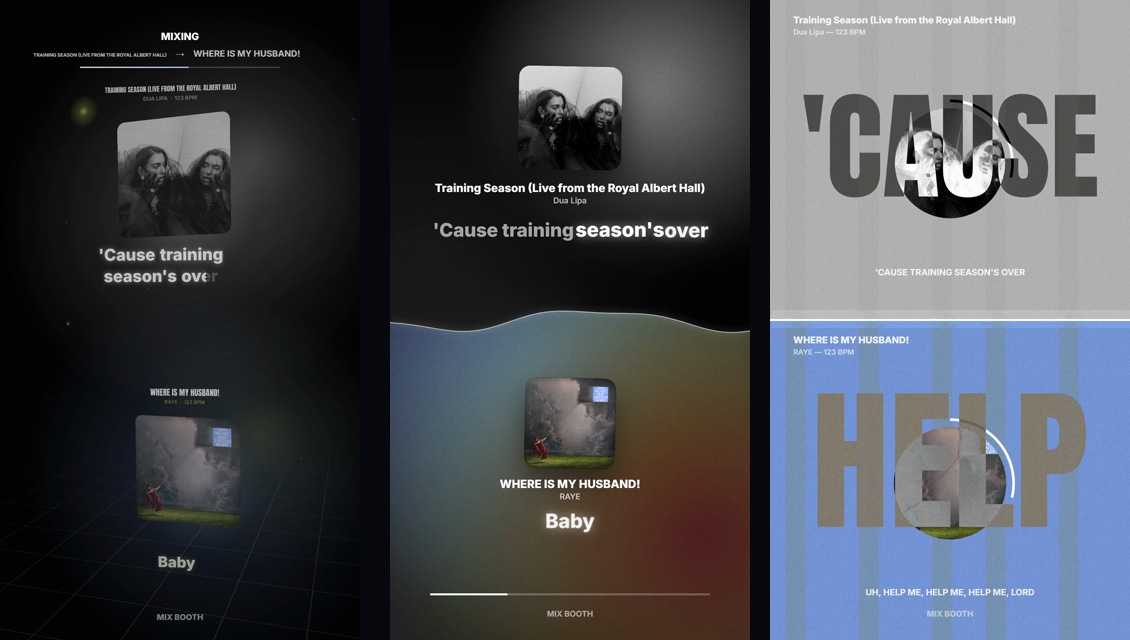
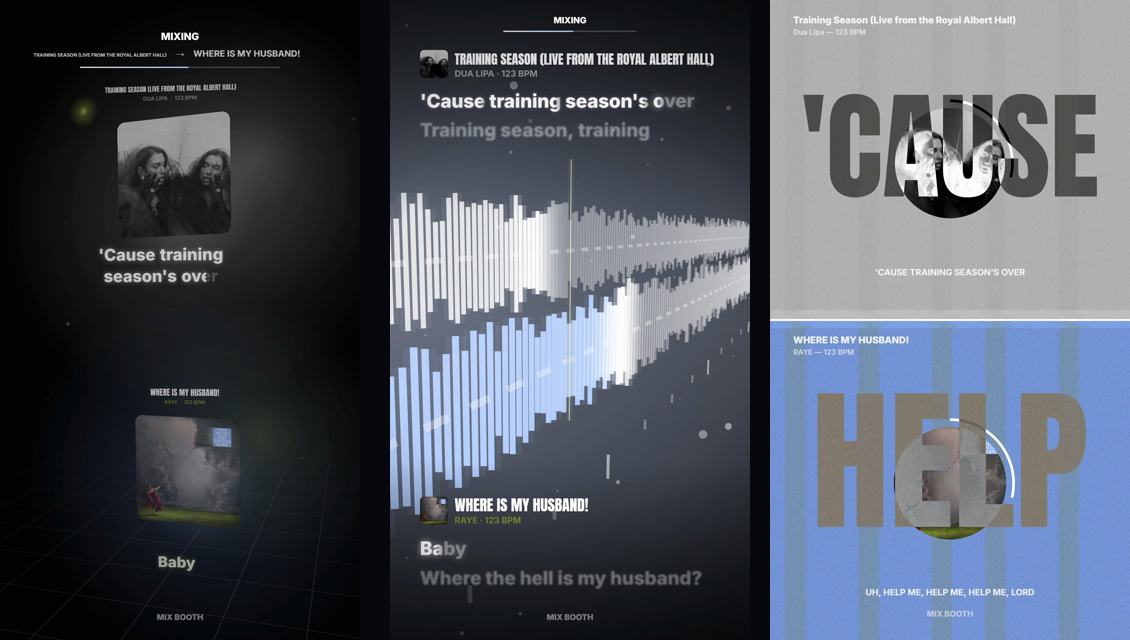
Clips: Waveform style, Spicy Lyrics-style lyrics, and no more shaking
Waveform shows each song's real loudness as thin bars passing the camera; on the mix both waves meet in the middle and their colours blend. Lyrics scroll like Spicy Lyrics, with words filling with light as they're sung. The beat pulse is softer and OBS keeps its own steady clock, so clips no longer shake.

Changed region(s): [[0.3407, 0.0, 0.6814, 1.0]]

diff --git a/mix-booth.js b/mix-booth.js
@@ -1424,16 +1424,19 @@
       const cover = track?.cover;
       const lines = lyricsOf(track?.uri);
       const line = lines ? lineAt(lines, pos) : null;
+      const analysis = analysisOf(track?.uri);
       return {
         title: track?.name ?? "", artist: track?.artist ?? "", uri: track?.uri, bpm: bpm ? Math.round(bpm) : null,
         img: cover ? decodedNow(cover) : null, pal: paletteOf(cover) ?? FALLBACK_PALETTE,
         pos, length: track?.length || 1, line, hasLyrics: !!lines?.length,
-        beat: Math.exp(-beatPhase(analysisOf(track?.uri), pos, bpm, anchor ?? 0) * 5),
+        beat: beatPulse(beatPhase(analysis, pos, bpm, anchor ?? 0)),
+        // Para la forma de onda: volumen de cada tramo y dónde cae cada beat
+        segs: analysis?.segments ?? null, beats: analysis?.beats ?? null, lines: lines ?? null,
       };
     };
     const a = song(s.a, posA, ov?.bpmA, ov?.startAMs);
     const b = s.b ? song(s.b, posB, ov?.bpmB, ov?.startBMs) : null;
-    return { now: now / 1000, m, inMix, mixing: s.mixing, a, b, cur: m < 0.5 || !b ? a : b, state: s };
+    return { now: now / 1000, m, inMix, mixing: s.mixing, dur: ov?.durationMs || 1, a, b, cur: m < 0.5 || !b ? a : b, state: s };
   }
   // Imágenes ya listas para pintar (sin esperar)
   const decodedNowCache = new Map();
@@ -1455,6 +1458,8 @@
   const easeOut = (x) => 1 - Math.pow(1 - clamp01(x), 3);
   const easeBack = (x) => { x = clamp01(x); const c = 1.7; return 1 + (c + 1) * Math.pow(x - 1, 3) + c * Math.pow(x - 1, 2); };
   const smoothStep = (x) => { x = clamp01(x); return x * x * (3 - 2 * x); };
+  // El golpe de cada beat: sube en unas centésimas (no de un cuadro a otro, que en vídeo parece que tiembla) y se apaga
+  const beatPulse = (phase) => (phase < 0.07 ? smoothStep(phase / 0.07) : Math.exp(-(phase - 0.07) * 4.5));
   // Dónde está la frontera entre las dos canciones durante la mezcla: entra rápido hasta la mitad,
   // las dos comparten pantalla casi toda la mezcla, y al final la nueva se queda con todo
   const splitLevel = (m) => Math.round(CLIP_H * (1 - 0.5 * smoothStep(m / 0.18) - 0.5 * smoothStep((m - 0.82) / 0.18)));
@@ -1796,7 +1801,7 @@
     const yaw = Math.sin(smoothStep((m - 0.1) / 0.8) * Math.PI) * 0.25 + Math.sin(t * 0.3) * 0.07;
     const eye = [look[0] + Math.sin(yaw) * dist, look[1] + 1.2 - hold * 1.2 + Math.sin(t * 0.5) * 0.4, look[2] + Math.cos(yaw) * dist];
     const roll = hold * 0.06 * Math.sin(t * 0.4);
-    const fov = ((52 - beat * 1.6 + hold * 8) * Math.PI) / 180;
+    const fov = ((52 - beat * 0.7 + hold * 8) * Math.PI) / 180;
     const VP = m4.mul(m4.persp(fov, CLIP_W / CLIP_H, 0.1, 200), m4.look(eye, look, [Math.sin(roll), Math.cos(roll), 0]));
     gl.viewport(0, 0, CLIP_W, CLIP_H);
     const deepA = A.pal.deep, deepB = B ? B.pal.deep : deepA;
@@ -1830,7 +1835,7 @@
     const worlds = [];
     const world = (song, pos, vis) => {
       if (!song || vis <= 0.01) return;
-      const s = orbitSong(E, song), [px, py, pz] = pos, bs = 1 + song.beat * 0.05;
+      const s = orbitSong(E, song), [px, py, pz] = pos, bs = 1 + song.beat * 0.025;
       quad(E.glow, px, py, pz - 2, 0, 0, 26 * bs, 26 * bs, song.pal.c[0], 0.55 * vis, true);
       quad(E.glow, px + 4, py + 3, pz - 4, 0, 0, 18, 18, song.pal.c[1] ?? song.pal.c[0], 0.35 * vis, true);
       worlds.push({ s, px, py, pz, bs, vis, d: Math.hypot(px - eye[0], py - eye[1], pz - eye[2]) });
@@ -1869,10 +1874,262 @@
     ctx.textAlign = "center"; ctx.font = "800 24px Inter"; ctx.fillStyle = "rgba(255,255,255,.45)"; ctx.fillText("MIX BOOTH", CLIP_W / 2, CLIP_H - 60);
   }
 
+  // ----- Letra al estilo de Spicy Lyrics -----
+  // Varias líneas a la izquierda: la anterior apagada arriba, la que suena brillante y las siguientes debajo.
+  // En la que suena, cada palabra se rellena de luz de izquierda a derecha mientras se canta, sube un poco y
+  // brilla; las demás líneas se ven tenues y algo desenfocadas según lo lejos que están. Al pasar de línea la
+  // lista sube con suavidad. En las partes sin letra, tres puntos que laten
+  function spicyLyrics(ctx, song, X, Y, maxW, size, rowsBelow, alpha = 1) {
+    const lines = song.lines;
+    if (!lines?.length || alpha <= 0.01) return;
+    const pos = song.pos, lh = size * 1.18;
+    ctx.save(); ctx.font = `800 ${size}px Inter`; ctx.textBaseline = "alphabetic"; ctx.textAlign = "left";
+    const sp = ctx.measureText(" ").width;
+    // Cada línea partida en filas que caben en el ancho
+    const layout = (line) => {
+      if (line.rows) return line.rows;
+      const rows = [[]]; let w = 0;
+      for (const word of line.words) { const ww = ctx.measureText(word.text).width; if (w + ww > maxW && rows[rows.length - 1].length) { rows.push([]); w = 0; } rows[rows.length - 1].push({ word, ww }); w += ww + sp; }
+      return rows;
+    };
+    let idx = -1;
+    for (let i = 0; i < lines.length; i++) { if (lines[i].start <= pos + 150) idx = i; else break; }
+    // Desplazamiento suave: durante 450 ms tras empezar la línea, la lista sube desde la anterior
+    const settle = idx >= 0 ? smoothStep((pos - lines[idx].start + 150) / 450) : 1;
+    const first = Math.max(0, idx - 1), last = Math.min(lines.length - 1, Math.max(idx, 0) + rowsBelow);
+    const heights = [];
+    for (let i = first; i <= last; i++) heights[i] = layout(lines[i]).length * lh + size * 0.35;
+    // Posición de la línea actual: arriba del bloque, dejando sitio a la anterior
+    const prevH = idx > 0 ? heights[idx - 1] ?? lh : 0;
+    let y = Y - (idx > 0 ? prevH : 0) + (1 - settle) * (idx > 0 ? prevH : 0);
+    const bottom = Y + lh * (rowsBelow + 1.3);
+    // La letra no sale de su franja: al subir, la línea anterior se mete por arriba, y las de abajo no tocan nada
+    ctx.beginPath(); ctx.rect(X - 60, Y - size * 0.3, maxW + 160, bottom - Y + size * 2); ctx.clip();
+    for (let i = first; i <= last; i++) {
+      const line = lines[i], rows = layout(line), dist = i - idx;
+      const active = i === idx && pos <= line.end + 400;
+      // Las líneas lejanas se apagan y se desenfocan; la anterior se va desvaneciendo al subir
+      let a = active ? 1 : i < idx ? 0.32 * (1 - settle) : Math.max(0.12, 0.42 - (dist - 1) * 0.12);
+      if (y + rows.length * lh > bottom + lh) a *= 0.4;
+      if (y > bottom) break;
+      const blur = active ? 0 : Math.min(5, Math.abs(dist) * 2.2);
+      ctx.globalAlpha = alpha * a;
+      ctx.filter = blur > 0.3 ? `blur(${blur.toFixed(1)}px)` : "none";
+      rows.forEach((row, r) => {
+        let px = X;
+        const py = y + size + r * lh;
+        // Abajo solo entran filas enteras: nada de líneas cortadas por la mitad
+        if (py > bottom + size * 0.2) return;
+        for (const { word, ww } of row) {
+          const k = active ? clamp01((pos - word.start) / Math.max(1, word.end - word.start)) : i < idx ? 1 : 0;
+          if (!active) { ctx.fillStyle = "#fff"; ctx.fillText(word.text, px, py); px += ww + sp; continue; }
+          // Relleno de luz que avanza por la palabra, con el borde suave
+          const lift = -size * 0.06 * Math.sin(Math.PI * Math.min(1, k * 1.15)) - (k >= 1 ? size * 0.015 : 0);
+          const g = ctx.createLinearGradient(px, 0, px + ww, 0);
+          g.addColorStop(0, k > 0 ? "rgba(255,255,255,1)" : "rgba(255,255,255,.38)");
+          g.addColorStop(clamp01(k - 0.08), k > 0 ? "rgba(255,255,255,1)" : "rgba(255,255,255,.38)");
+          g.addColorStop(clamp01(k + 0.08), "rgba(255,255,255,.38)");
+          g.addColorStop(1, k >= 1 ? "rgba(255,255,255,1)" : "rgba(255,255,255,.38)");
+          ctx.save();
+          if (k > 0 && k < 1) { ctx.shadowColor = "rgba(255,255,255,.75)"; ctx.shadowBlur = size * 0.35; }
+          else if (k >= 1) { ctx.shadowColor = "rgba(255,255,255,.35)"; ctx.shadowBlur = size * 0.18; }
+          ctx.fillStyle = g; ctx.fillText(word.text, px, py + lift);
+          ctx.restore();
+          px += ww + sp;
+        }
+      });
+      y += heights[i] ?? rows.length * lh;
+    }
+    ctx.filter = "none";
+    // Sin letra ahora mismo (intro o parte instrumental larga): tres puntos que laten
+    const next = lines[idx + 1], current = lines[idx];
+    const gap = (!current || pos > current.end + 600) && (!next || next.start - pos > 1500);
+    if (gap) {
+      ctx.globalAlpha = alpha;
+      for (let d = 0; d < 3; d++) {
+        const ph = (pos / 1000) * 2.2 - d * 0.35, s = 0.6 + 0.4 * Math.max(0, Math.sin(ph * Math.PI));
+        ctx.fillStyle = `rgba(255,255,255,${(0.35 + 0.65 * Math.max(0, Math.sin(ph * Math.PI))).toFixed(3)})`;
+        ctx.beginPath(); ctx.arc(X + size * 0.3 + d * size * 0.75, Y + size * 0.6, size * 0.16 * s, 0, 7); ctx.fill();
+      }
+    }
+    ctx.restore();
+  }
+
+  // ----- Estilo Waveform -----
+  // La forma de onda de cada canción (barras finas sobre una línea discontinua) vista muy de lado y de cerca:
+  // las barras pasan rozando la cámara y se pierden en diagonal. Lo que ya sonó va del color de la canción.
+  // En la mezcla las dos ondas se juntan en el centro, la nueva un poco delante y más abajo; donde se pisan,
+  // sus colores se mezclan. Las barras salen del volumen real de cada tramo de la canción
+  const WAVE_MS = 45, WAVE_GAP = 0.105;
+  const WAVE_DUST = Array.from({ length: 140 }, (_, i) => ({ x: (Math.abs(Math.sin(i * 12.9898) * 43758.5453) % 1) * 36 - 18, y: (Math.abs(Math.sin(i * 78.233) * 12345.678) % 1) * 16 - 8, z: (Math.abs(Math.sin(i * 39.425) * 24634.6345) % 1) * 18 - 12, s: 0.02 + (i % 4) * 0.012, ph: i * 0.7 }));
+  const waveHash = (n, seed) => Math.abs(Math.sin(n * 12.9898 + seed) * 43758.5453) % 1;
+  // Volumen (0 a 1) de la canción en un momento: del análisis de audio si lo hay; si no, una onda inventada estable
+  function waveLevel(song, ms, seed) {
+    const segs = song.segs, bar = Math.floor(ms / WAVE_MS);
+    let v;
+    if (segs?.length) {
+      let lo = 0, hi = segs.length - 1, i = -1;
+      while (lo <= hi) { const mid = (lo + hi) >> 1; if (segs[mid].at <= ms) { i = mid; lo = mid + 1; } else hi = mid - 1; }
+      if (i < 0) return 0.05;
+      v = clamp01((segs[i].loud + 32) / 30) ** 1.4;
+    } else {
+      const x = ms / 1000;
+      v = clamp01(0.5 + 0.25 * Math.sin(x * 1.7 + seed) + 0.15 * Math.sin(x * 5.3 + seed * 2) + 0.1 * Math.sin(x * 11.1 + seed * 3));
+    }
+    return clamp01(v * (0.5 + 0.5 * waveHash(bar, seed)));
+  }
+  function drawWaveform(ctx, F) {
+    const t = F.now, W = CLIP_W, H = CLIP_H;
+    const both = !!(F.b && F.inMix), m = both ? F.m : 0;
+    const A = both ? F.a : F.cur, B = both ? F.b : null;
+    const lerp = (p, q, k) => p + (q - p) * k;
+    const mixC = (p, q, k) => p.map((v, i) => lerp(v, q[i], k));
+    const seedOf = (s) => { let h = 0; for (const ch of s.uri || s.title) h = (h * 31 + ch.charCodeAt(0)) % 1000; return h / 100; };
+    const into = smoothStep(m / 0.2), outOf = smoothStep((m - 0.8) / 0.2), hold = into * (1 - outOf);
+    const growB = B ? smoothStep(m / 0.18) : 0, shrinkA = B ? smoothStep((m - 0.8) / 0.17) : 0;
+    // Dónde termina la que sale y dónde empezó la que entra (en el tiempo de cada una)
+    const aEnd = B ? A.pos + (1 - m) * (F.dur || 1) : Infinity, bStart = B ? B.pos - m * (F.dur || 1) : -Infinity;
+    const yA = 0.45 * into, yB = -0.45 * (1 - outOf), zA = -0.5 * into, zB = 0.6 * (1 - outOf);
+    const target = [0, (yA * (1 - shrinkA) + yB * growB) / ((1 - shrinkA) + growB || 1) - 0.3, 0];
+    // Cámara cerca y muy de lado; gira un poco, despacio
+    const ang = -1.2 + Math.sin(t * 0.17) * 0.1 + Math.sin(smoothStep((m - 0.1) / 0.8) * Math.PI) * 0.12;
+    const R = 6.2 + hold * 0.8, hgt = 0.9 + Math.sin(t * 0.3) * 0.25;
+    const eye = [target[0] + Math.sin(ang) * R, target[1] + hgt, target[2] + Math.cos(ang) * R];
+    const sub = [target[0] - eye[0], target[1] - eye[1], target[2] - eye[2]];
+    const nrm = (v) => { const l = Math.hypot(v[0], v[1], v[2]) || 1; return [v[0] / l, v[1] / l, v[2] / l]; };
+    const crs = (p, q) => [p[1] * q[2] - p[2] * q[1], p[2] * q[0] - p[0] * q[2], p[0] * q[1] - p[1] * q[0]];
+    const fwd = nrm(sub), right = nrm(crs(fwd, [Math.sin(Math.sin(t * 0.25) * 0.04), 1, 0])), up = crs(right, fwd);
+    const f = H / 2 / Math.tan((55 * Math.PI) / 360), cx = W / 2, cy = H / 2;
+    const proj = (x, y, z) => {
+      const dx = x - eye[0], dy = y - eye[1], dz = z - eye[2];
+      const Z = dx * fwd[0] + dy * fwd[1] + dz * fwd[2];
+      if (Z < 0.4) return null;
+      return [cx + ((dx * right[0] + dy * right[1] + dz * right[2]) * f) / Z, cy - ((dx * up[0] + dy * up[1] + dz * up[2]) * f) / Z, Z];
+    };
+    // Fondo con el color de las dos canciones según cuánto suena cada una, y un halo de cada una detrás de su onda
+    const deep = B ? mixC(A.pal.deep, B.pal.deep, lerp(growB * 0.5, 1, outOf)) : A.pal.deep;
+    const g0 = ctx.createLinearGradient(0, 0, 0, H);
+    g0.addColorStop(0, "#000"); g0.addColorStop(0.5, rgba(mixC(deep, [255, 255, 255], 0.04))); g0.addColorStop(1, "#000");
+    ctx.fillStyle = g0; ctx.fillRect(0, 0, W, H);
+    ctx.globalCompositeOperation = "screen";
+    const halo = (song, x, y, a) => {
+      if (!song || a <= 0.01) return; const p = proj(x, y, -3); if (!p) return;
+      const r = (10 * f) / p[2], g = ctx.createRadialGradient(p[0], p[1], 0, p[0], p[1], r);
+      g.addColorStop(0, rgba(song.pal.c[0], 0.3 * a)); g.addColorStop(1, rgba(song.pal.c[0], 0)); ctx.fillStyle = g; ctx.fillRect(0, 0, W, H);
+    };
+    halo(A, -2 * into, yA, 1 - shrinkA); halo(B, 2 * growB * (1 - outOf), yB, growB);
+    ctx.globalCompositeOperation = "source-over";
+    const dust = (front) => {
+      for (const d of WAVE_DUST) {
+        if ((d.z > -2) !== front) continue;
+        const p = proj(d.x + Math.sin(t * 0.3 + d.ph) * 0.4, d.y + target[1] + Math.sin(t * 0.5 + d.ph) * 0.3, d.z); if (!p) continue;
+        ctx.fillStyle = `rgba(255,255,255,${((0.25 + 0.35 * Math.sin(t * 1.3 + d.ph) ** 2) * clamp01(1.3 - p[2] / 30)).toFixed(3)})`;
+        ctx.beginPath(); ctx.arc(p[0], p[1], Math.max(0.8, (d.s * f) / p[2]), 0, 7); ctx.fill();
+      }
+    };
+    dust(false);
+    // Línea discontinua, brillo de la base y una marca en cada beat (de la canción que manda)
+    const baseline = (song, y, z, a, marks, from, to) => {
+      if (!song || a <= 0.01) return;
+      ctx.strokeStyle = `rgba(255,255,255,${(0.35 * a).toFixed(3)})`;
+      for (let x = -34; x < 34; x += 0.5) { const p = proj(x, y, z), q = proj(x + 0.25, y, z); if (!p || !q) continue; ctx.lineWidth = Math.max(1, (0.05 * f) / p[2]); ctx.beginPath(); ctx.moveTo(p[0], p[1]); ctx.lineTo(q[0], q[1]); ctx.stroke(); }
+      const p = proj(-20, y, z), q = proj(20, y, z);
+      if (p && q) { const g = ctx.createLinearGradient(p[0], p[1], q[0], q[1]); g.addColorStop(0, rgba(song.pal.c[0], 0)); g.addColorStop(0.5, rgba(song.pal.c[0], 0.35 * a)); g.addColorStop(1, rgba(song.pal.c[0], 0)); ctx.strokeStyle = g; ctx.lineWidth = 6; ctx.beginPath(); ctx.moveTo(p[0], p[1]); ctx.lineTo(q[0], q[1]); ctx.stroke(); }
+      if (marks <= 0.01) return;
+      const beats = song.beats?.length ? song.beats : null, beatMs = 60000 / (song.bpm || 120);
+      const list = beats ? beats.filter((ms) => ms > song.pos - 7000 && ms < song.pos + 7000) : Array.from({ length: Math.ceil(14000 / beatMs) }, (_, k) => (Math.ceil((song.pos - 7000) / beatMs) + k) * beatMs);
+      list.forEach((ms, k) => {
+        if (ms < from || ms > to) return;
+        const x = ((ms - song.pos) / WAVE_MS) * WAVE_GAP, big = k % 4 === 0;
+        const t1 = proj(x, y - 1.0, z + 0.25), t2 = proj(x, y - (big ? 1.25 : 1.12), z + 0.25); if (!t1 || !t2) return;
+        ctx.strokeStyle = `rgba(255,255,255,${((big ? 0.55 : 0.3) * marks).toFixed(3)})`; ctx.lineWidth = Math.max(1, (0.03 * f) / t1[2]); ctx.beginPath(); ctx.moveTo(t1[0], t1[1]); ctx.lineTo(t2[0], t2[1]); ctx.stroke();
+      });
+    };
+    baseline(A, yA, zA, 1 - smoothStep((m - 0.9) / 0.1), 1 - growB, -Infinity, aEnd);
+    baseline(B, yB, zB, smoothStep(m / 0.08), growB, bStart, Infinity);
+    // Las barras de las dos ondas, de lejos a cerca, en modo "pantalla" para que donde se pisan se mezclen los colores
+    const bars = [];
+    const track = (song, y, z, grow, from, to) => {
+      if (!song || grow <= 0.005) return;
+      const seed = seedOf(song), n0 = Math.floor((song.pos - 7500) / WAVE_MS), n1 = Math.ceil((song.pos + 7500) / WAVE_MS);
+      for (let n = n0; n <= n1; n++) {
+        const ms = n * WAVE_MS;
+        if (ms < from || ms > to) continue;                 // antes de empezar o después de acabar: solo la línea
+        const dist = (ms - song.pos) / 1000;
+        const glow = Math.exp(-(dist * dist) / 0.04), played = clamp01(0.5 - dist * 8);
+        // Al crecer o encogerse en la mezcla, las barras cercanas al ahora van primero
+        const g = clamp01(grow * 1.6 - Math.abs(dist) * 0.06);
+        if (g <= 0) continue;
+        const h = (0.06 + waveLevel(song, ms, seed) * lerp(1.45, 1.2, hold) * (1 + glow * song.beat * 0.25)) * smoothStep(g);
+        const x = ((ms - song.pos) / WAVE_MS) * WAVE_GAP, p = proj(x, y, z);
+        if (p) bars.push({ x, y, z, h, song, played, glow, d: p[2], alpha: 0.35 + 0.65 * g });
+      }
+    };
+    track(A, yA, zA, 1 - shrinkA, -Infinity, aEnd);
+    track(B, yB, zB, growB, bStart, Infinity);
+    bars.sort((p, q) => q.d - p.d);
+    ctx.lineCap = "butt"; ctx.globalCompositeOperation = "screen";
+    for (const b of bars) {
+      const top = proj(b.x, b.y + b.h / 2, b.z), bot = proj(b.x, b.y - b.h / 2, b.z);
+      if (!top || !bot) continue;
+      const wpx = Math.max(0.9, (0.045 * f) / b.d);
+      const col = mixC(mixC([255, 255, 255], b.song.pal.c[0], b.played), [255, 255, 255], b.glow * 0.7);
+      const a = b.alpha * lerp(0.35, 1, Math.max(b.played, b.glow)) * clamp01(1.4 - b.d / 40);
+      if (b.glow > 0.05 || b.played > 0.5) { ctx.strokeStyle = rgba(col, (0.08 + b.glow * 0.25) * a); ctx.lineWidth = wpx * 3; ctx.beginPath(); ctx.moveTo(top[0], top[1]); ctx.lineTo(bot[0], bot[1]); ctx.stroke(); }
+      ctx.strokeStyle = rgba(col, a); ctx.lineWidth = wpx; ctx.beginPath(); ctx.moveTo(top[0], top[1]); ctx.lineTo(bot[0], bot[1]); ctx.stroke();
+    }
+    ctx.globalCompositeOperation = "source-over";
+    // Línea del ahora: una luz vertical que atraviesa las ondas
+    const topY = B ? lerp(yA, yB, shrinkA) : yA, botY = B ? lerp(yA, yB, growB) : yA;
+    const nowTop = proj(0, Math.max(topY, botY) + 1.05, 0), nowBot = proj(0, Math.min(topY, botY) - 1.05, 0);
+    if (nowTop && nowBot) {
+      const accent = B ? mixC(A.pal.c[1] ?? A.pal.c[0], B.pal.c[1] ?? B.pal.c[0], lerp(into * 0.5, 1, outOf)) : A.pal.c[1] ?? A.pal.c[0];
+      ctx.strokeStyle = rgba(accent, 0.18); ctx.lineWidth = 18; ctx.beginPath(); ctx.moveTo(nowTop[0], nowTop[1]); ctx.lineTo(nowBot[0], nowBot[1]); ctx.stroke();
+      ctx.strokeStyle = "rgba(255,255,255,.9)"; ctx.lineWidth = 2; ctx.stroke();
+    }
+    dust(true);
+    // Letras: la que sale arriba, la que entra abajo. Aparecen y se van con un fundido corto; al final la nueva
+    // se funde abajo y reaparece arriba, sin cruzar su onda
+    // Cabecera pequeña (portada, título, artista) y debajo la letra al estilo Spicy Lyrics, alineada a la izquierda
+    const lyric = (song, y, alpha, size, below) => {
+      if (!song || alpha <= 0.01) return;
+      const accent = song.pal.c[1] ?? song.pal.c[0];
+      ctx.save(); ctx.globalAlpha = alpha;
+      if (song.img) { ctx.save(); rr(ctx, 90, y, 84, 84, 12); ctx.clip(); ctx.drawImage(song.img, 90, y, 84, 84); ctx.restore(); }
+      ctx.textAlign = "left"; ctx.fillStyle = "#fff"; fitText(ctx, song.title.toUpperCase(), 780, 46, "", "Anton"); ctx.fillText(song.title.toUpperCase(), 194, y + 44);
+      ctx.fillStyle = rgba(accent); ctx.font = "700 26px Inter"; ctx.fillText(`${song.artist.toUpperCase()}${song.bpm ? ` · ${song.bpm} BPM` : ""}`, 194, y + 80);
+      ctx.restore();
+      spicyLyrics(ctx, song, 90, y + 118, 900, size, below, alpha);
+    };
+    // Sombra suave detrás de cada bloque de letra: las barras cercanas se apagan al llegar al texto
+    const shade = (y0, y1, a) => { if (a <= 0.01) return; const g = ctx.createLinearGradient(0, y0, 0, y1); g.addColorStop(0, `rgba(0,0,0,${(0.55 * a).toFixed(3)})`); g.addColorStop(1, "rgba(0,0,0,0)"); ctx.fillStyle = g; ctx.fillRect(0, Math.min(y0, y1), W, Math.abs(y1 - y0)); };
+    shade(0, 640, 1);
+    if (B) shade(CLIP_H, 1380, growB * (1 - smoothStep((m - 0.85) / 0.15)));
+    const fadeA = 1 - smoothStep((m - 0.8) / 0.12), fadeB = smoothStep((m - 0.04) / 0.14);
+    const leaveB = smoothStep((m - 0.8) / 0.08), topB = smoothStep((m - 0.9) / 0.1);
+    lyric(A, 150 - (1 - fadeA) * 30, B ? fadeA : 1, Math.round(lerp(66, 56, into)), hold > 0.5 ? 1 : 2);
+    if (B) {
+      lyric(B, 1490 + (1 - fadeB) * 30 + leaveB * 30, fadeB * (1 - leaveB), 56, 1);
+      lyric(B, 150 + (1 - topB) * 30, topB, 66, 2);
+    }
+    // Viñeta, cabecera de mezcla y firma
+    const v = ctx.createRadialGradient(W / 2, H / 2, H * 0.3, W / 2, H / 2, H * 0.78);
+    v.addColorStop(0, "rgba(0,0,0,0)"); v.addColorStop(1, "rgba(0,0,0,.55)"); ctx.fillStyle = v; ctx.fillRect(0, 0, W, H);
+    const hud = B ? smoothStep(m / 0.1) * (1 - smoothStep((m - 0.9) / 0.1)) : 0;
+    if (hud > 0) {
+      ctx.save(); ctx.globalAlpha = hud; ctx.textAlign = "center"; ctx.fillStyle = "#fff"; ctx.font = "800 26px Inter"; ctx.fillText("MIXING", W / 2, 70);
+      ctx.fillStyle = "rgba(255,255,255,.2)"; ctx.fillRect(340, 92, 400, 4);
+      const g = ctx.createLinearGradient(340, 0, 740, 0); g.addColorStop(0, rgba(A.pal.c[0])); g.addColorStop(1, rgba(B.pal.c[0])); ctx.fillStyle = g; ctx.fillRect(340, 92, 400 * m, 4);
+      ctx.restore();
+    }
+    ctx.textAlign = "center"; ctx.font = "800 24px Inter"; ctx.fillStyle = "rgba(255,255,255,.45)"; ctx.fillText("MIX BOOTH", W / 2, H - 60);
+  }
+
   // </clip-art>
 
   const CLIP_STYLES = {
     orbit: { name: "Orbit", hint: "A 3D camera that holds both songs on the mix", draw: drawOrbit },
+    wave: { name: "Waveform", hint: "Each song's waveform in 3D; they overlap on the mix", draw: drawWaveform },
     aura: { name: "Aura", hint: "Liquid colours, words that float in", draw: drawAura },
     kinetic: { name: "Kinetic", hint: "Giant words, a split screen on the mix", draw: drawKinetic },
   };
@@ -1897,25 +2154,37 @@ ${beatPhase.toString()}
 ${lineAt.toString()}
 ${SHA256_SOURCE}
 const FALLBACK_PALETTE = ${JSON.stringify(FALLBACK_PALETTE)};
-const STYLES = { orbit: drawOrbit, aura: drawAura, kinetic: drawKinetic };
+const STYLES = { orbit: drawOrbit, wave: drawWaveform, aura: drawAura, kinetic: drawKinetic };
 const ctx = document.getElementById("c").getContext("2d");
 const songs = new Map();
 let tick = null, tickAt = 0;
+// Reloj propio y suave: cada aviso de Spotify llega con unos milisegundos de baile, y saltar a cada uno
+// hace temblar el beat. Se avanza con el tiempo real y se corrige poco a poco; solo un salto grande (un
+// cambio de punto en la canción) se aplica de golpe
+const clocks = new Map();
+function steady(key, target, rate) {
+  const now = performance.now(), c = clocks.get(key);
+  if (!c || Math.abs(target - (c.val + (now - c.at) * rate)) > 600) { clocks.set(key, { val: target, at: now }); return target; }
+  const predicted = c.val + (now - c.at) * rate;
+  c.val = predicted + (target - predicted) * 0.06; c.at = now;
+  return c.val;
+}
 function songAt(s, dt) {
   if (!s) return null;
   const info = songs.get(s.uri) || {};
-  const pos = s.pos + dt * (s.speed || 1);
+  const pos = steady(s.uri, s.pos + dt * (s.speed || 1), s.speed || 1);
   return { title: info.title || "", artist: info.artist || "", uri: s.uri, bpm: s.bpm, img: info.img || null, pal: info.pal || FALLBACK_PALETTE,
     pos, length: s.length || 1, line: info.lines ? lineAt(info.lines, pos) : null, hasLyrics: !!(info.lines && info.lines.length),
-    beat: Math.exp(-beatPhase(info.beats ? { beats: info.beats } : null, pos, s.bpm, s.anchor || 0) * 5) };
+    beat: beatPulse(beatPhase(info.beats ? { beats: info.beats } : null, pos, s.bpm, s.anchor || 0)),
+    segs: info.segs || null, beats: info.beats || null, lines: info.lines || null };
 }
 function frame(now) {
   requestAnimationFrame(frame);
   if (!tick) { ctx.fillStyle = "#000"; ctx.fillRect(0, 0, CLIP_W, CLIP_H); return; }
   const dt = Math.min(Date.now() - tickAt, 400);
-  const m = tick.inMix ? clamp01(tick.m + dt / tick.dur) : tick.m;
+  const m = tick.inMix ? clamp01(steady("mix", tick.m * tick.dur + dt, 1) / tick.dur) : tick.m;
   const a = songAt(tick.a, dt), b = songAt(tick.b, dt);
-  ctx.save(); STYLES[tick.style](ctx, { now: now / 1000, m, inMix: tick.inMix, mixing: tick.mixing, a, b, cur: m < 0.5 || !b ? a : b }); ctx.restore();
+  ctx.save(); (STYLES[tick.style] || drawOrbit)(ctx, { now: now / 1000, m, inMix: tick.inMix, mixing: tick.mixing, dur: tick.dur, a, b, cur: m < 0.5 || !b ? a : b }); ctx.restore();
 }
 const fonts = document.fonts.ready.then(() => Promise.all(["120px Anton", "800 64px Inter", "500 38px Inter", "700 40px Inter", "600 30px Inter"].map((f) => document.fonts.load(f).catch(() => {}))));
 const pw = decodeURIComponent(location.hash.slice(1));
@@ -1956,7 +2225,9 @@ requestAnimationFrame(frame);`;
     if (!track?.uri) return null;
     const cover = track.big ?? track.cover;
     return { mbClip: "song", uri: track.uri, title: track.name ?? "", artist: track.artist ?? "", cover,
-      pal: paletteOf(track.cover) ?? null, lines: lyricsOf(track.uri) ?? null, beats: analysisOf(track.uri)?.beats ?? null };
+      pal: paletteOf(track.cover) ?? null, lines: lyricsOf(track.uri) ?? null, beats: analysisOf(track.uri)?.beats ?? null,
+      // Volumen de cada tramo, redondeado (para la forma de onda)
+      segs: analysisOf(track.uri)?.segments?.map((s) => ({ at: Math.round(s.at), loud: Math.round(s.loud * 10) / 10 })) ?? null };
   }
   function clipTickPacket(style) {
     const F = clipFrame(performance.now());
@@ -2223,7 +2494,7 @@ requestAnimationFrame(frame);`;
         for (const track of tracks) {
           const packet = clipSongPacket(track);
           if (!packet) continue;
-          const sig = `${packet.cover}|${!!packet.pal}|${packet.lines?.length ?? -1}|${packet.beats?.length ?? -1}`;
+          const sig = `${packet.cover}|${!!packet.pal}|${packet.lines?.length ?? -1}|${packet.beats?.length ?? -1}|${packet.segs?.length ?? -1}`;
           if (!full && sentSongs.get(packet.uri) === sig) continue;
           sentSongs.set(packet.uri, sig);
           obs.request("BroadcastCustomEvent", { eventData: packet }).catch(() => {});

diff --git a/README.md b/README.md
@@ -21,10 +21,11 @@ Open it with the **Mix Booth** button (two records) in the player bar.
 
 Click **● Clip** in the booth to record a 1080×1920 video of the song or the mix, ready for TikTok, Reels or Shorts. [OBS Studio](https://obsproject.com) does the recording, with Spotify's own sound.
 
-![Three clip styles: Orbit, Aura and Kinetic](https://raw.githubusercontent.com/SrPictus/mix-booth/main/screenshots/clips.png)
+![Clip styles: Orbit, Waveform and Kinetic](https://raw.githubusercontent.com/SrPictus/mix-booth/main/screenshots/clips.png)
 
-- **Three styles**, each with a live preview, and you pick one every time you record:
+- **Four styles**, each with a live preview, and you pick one every time you record:
   - **Orbit:** each song is a small 3D space (its cover, its colours, its title and its lyrics) and a camera floats through it, pulsing on the beat. When the mix starts the camera pulls back until both songs are in the shot, holds them while they play together, then flies down to the new one
+  - **Waveform:** the song's waveform, built from its real loudness, seen up close and from the side so the bars rush past you. The lyrics scroll like in Spicy Lyrics, each word filling with light as it's sung. On the mix both waveforms meet in the middle, one slightly in front of the other, and their colours blend where they overlap
   - **Aura:** a liquid gradient made from the cover's colours, the cover floating above it, and the lyrics coming in word by word out of a blur. On the mix, the screen splits along a liquid wave: the outgoing song stays on top and the incoming one rises from the bottom, each with its own cover, colours and lyrics at the same time
   - **Kinetic:** the word being sung fills the screen, each one arriving with its own motion. On the mix, the screen splits in two and both songs sing at once, each half with its own giant word, and the line between them glitches on every beat
 - **Real data:** the lyrics come with each word's timing (from [Spicy Lyrics](https://github.com/Spikerko/spicy-lyrics)' saved copy, or Spotify's), and the animation follows the song's real beat and the mix's real progress
